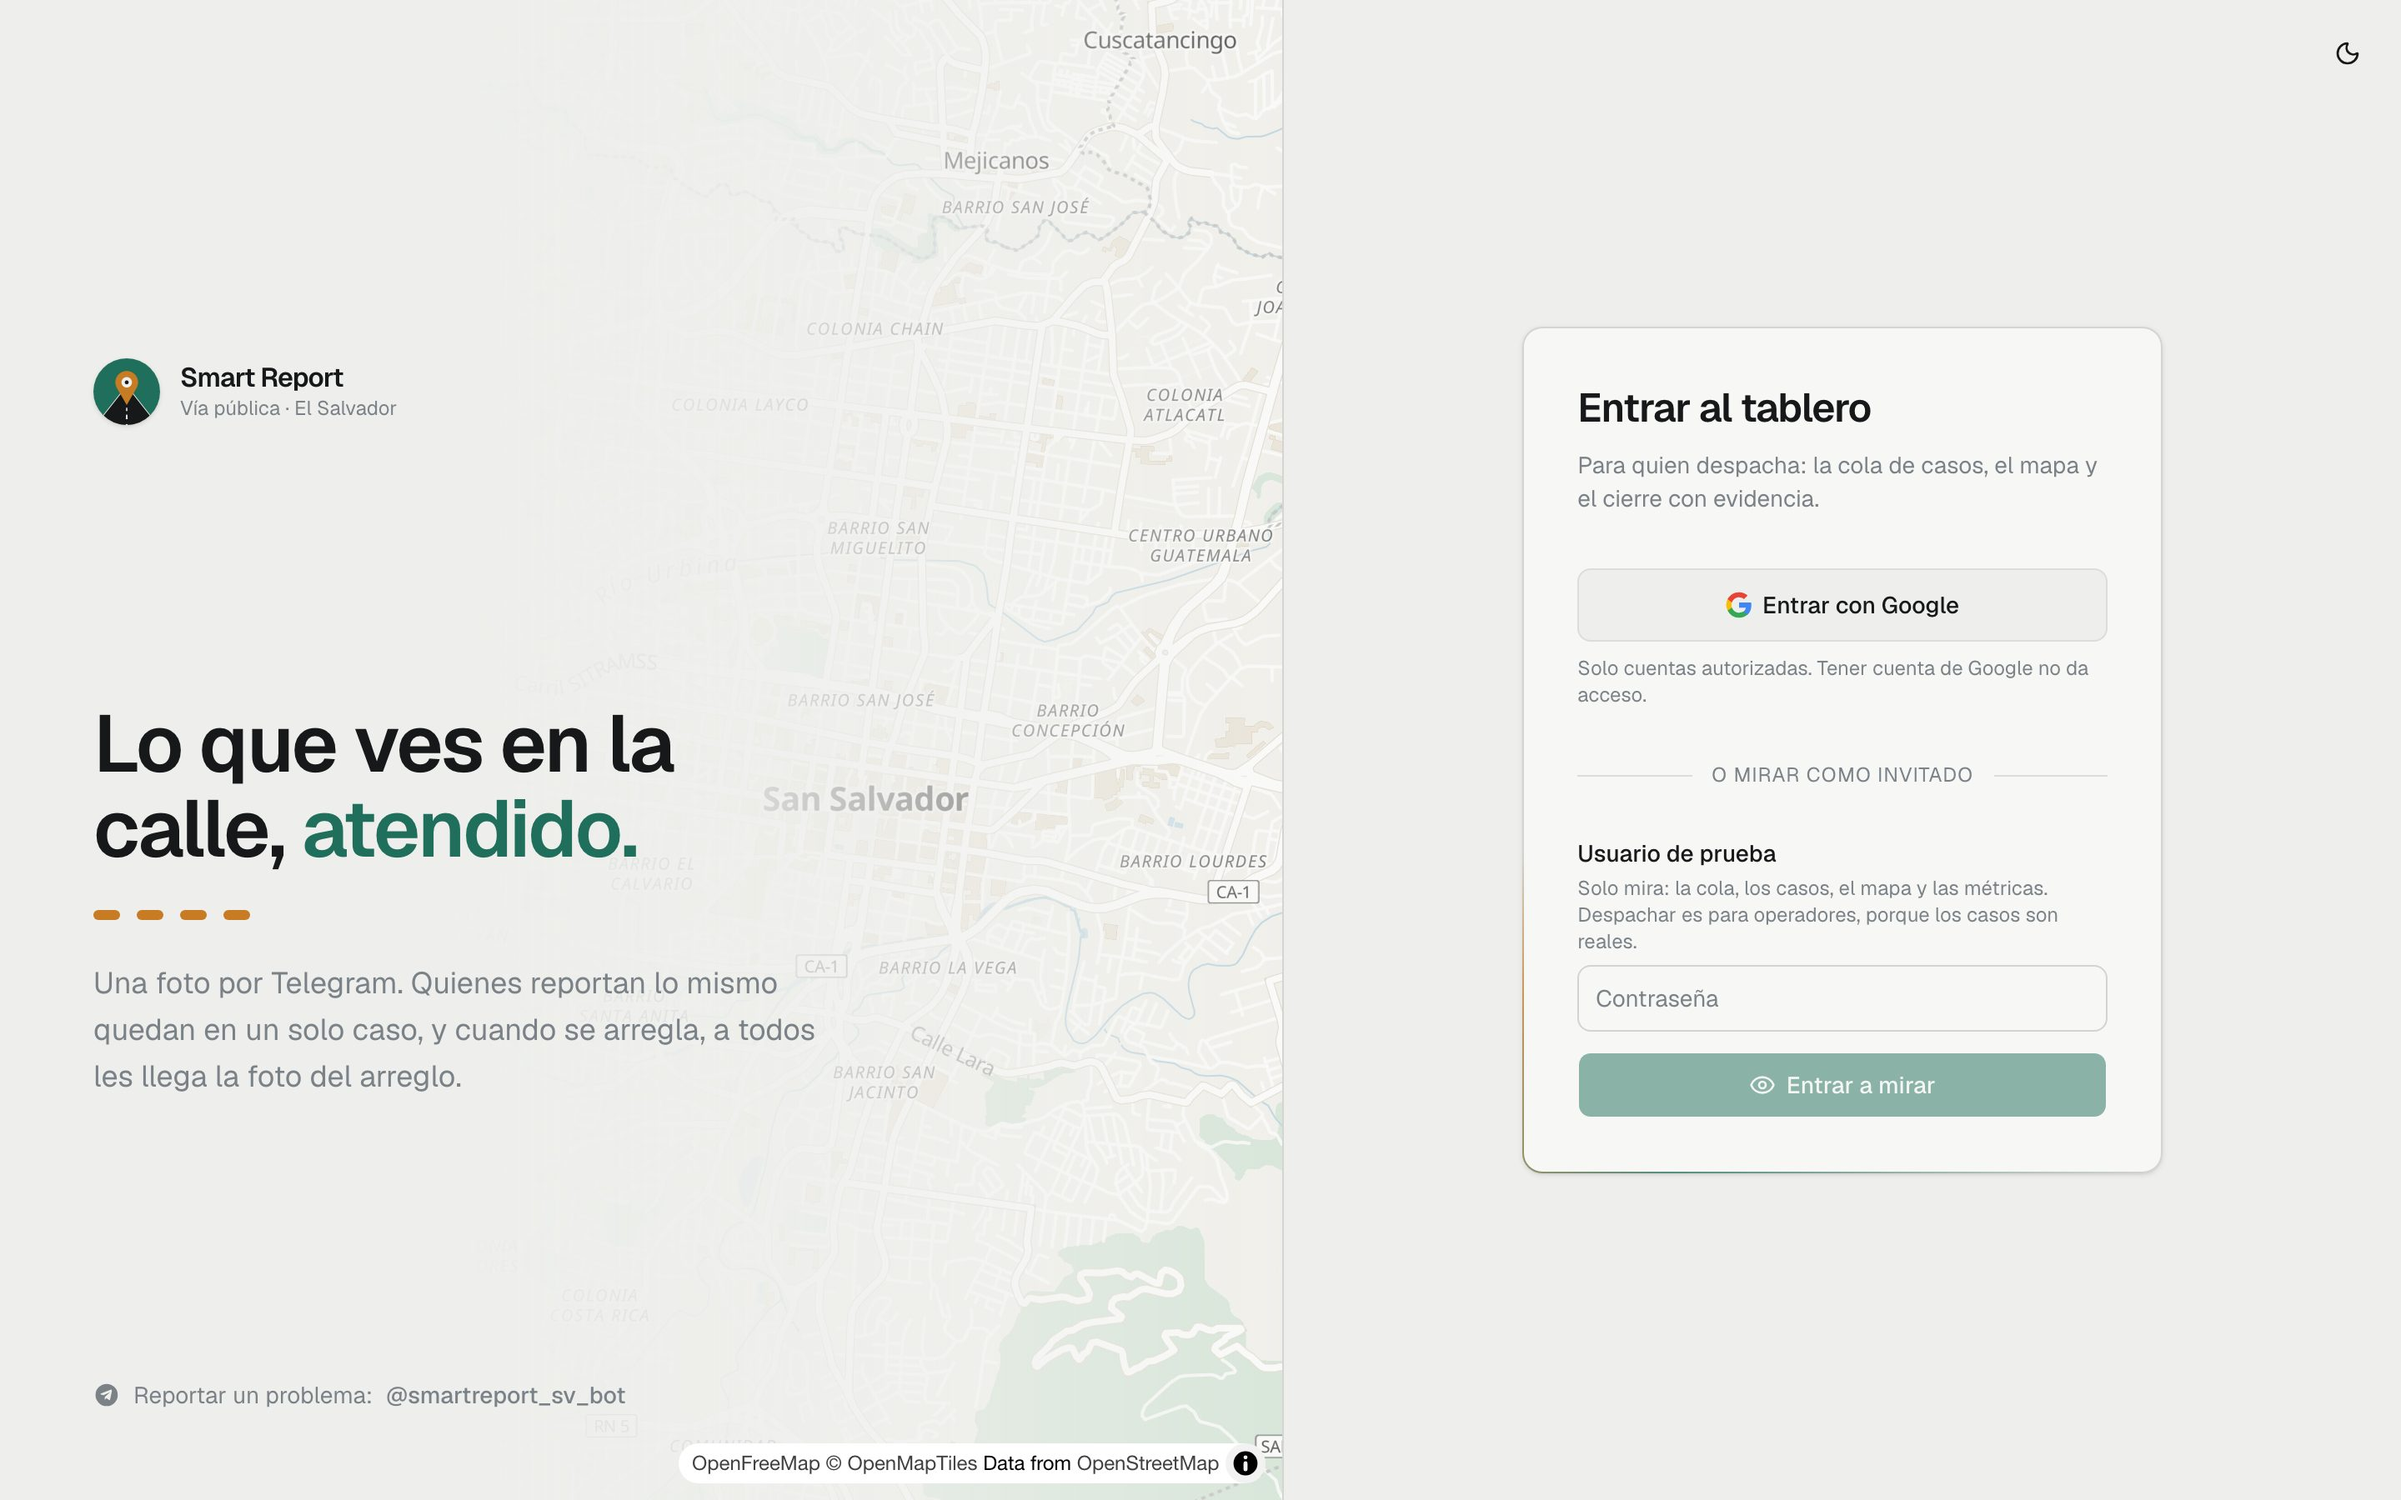
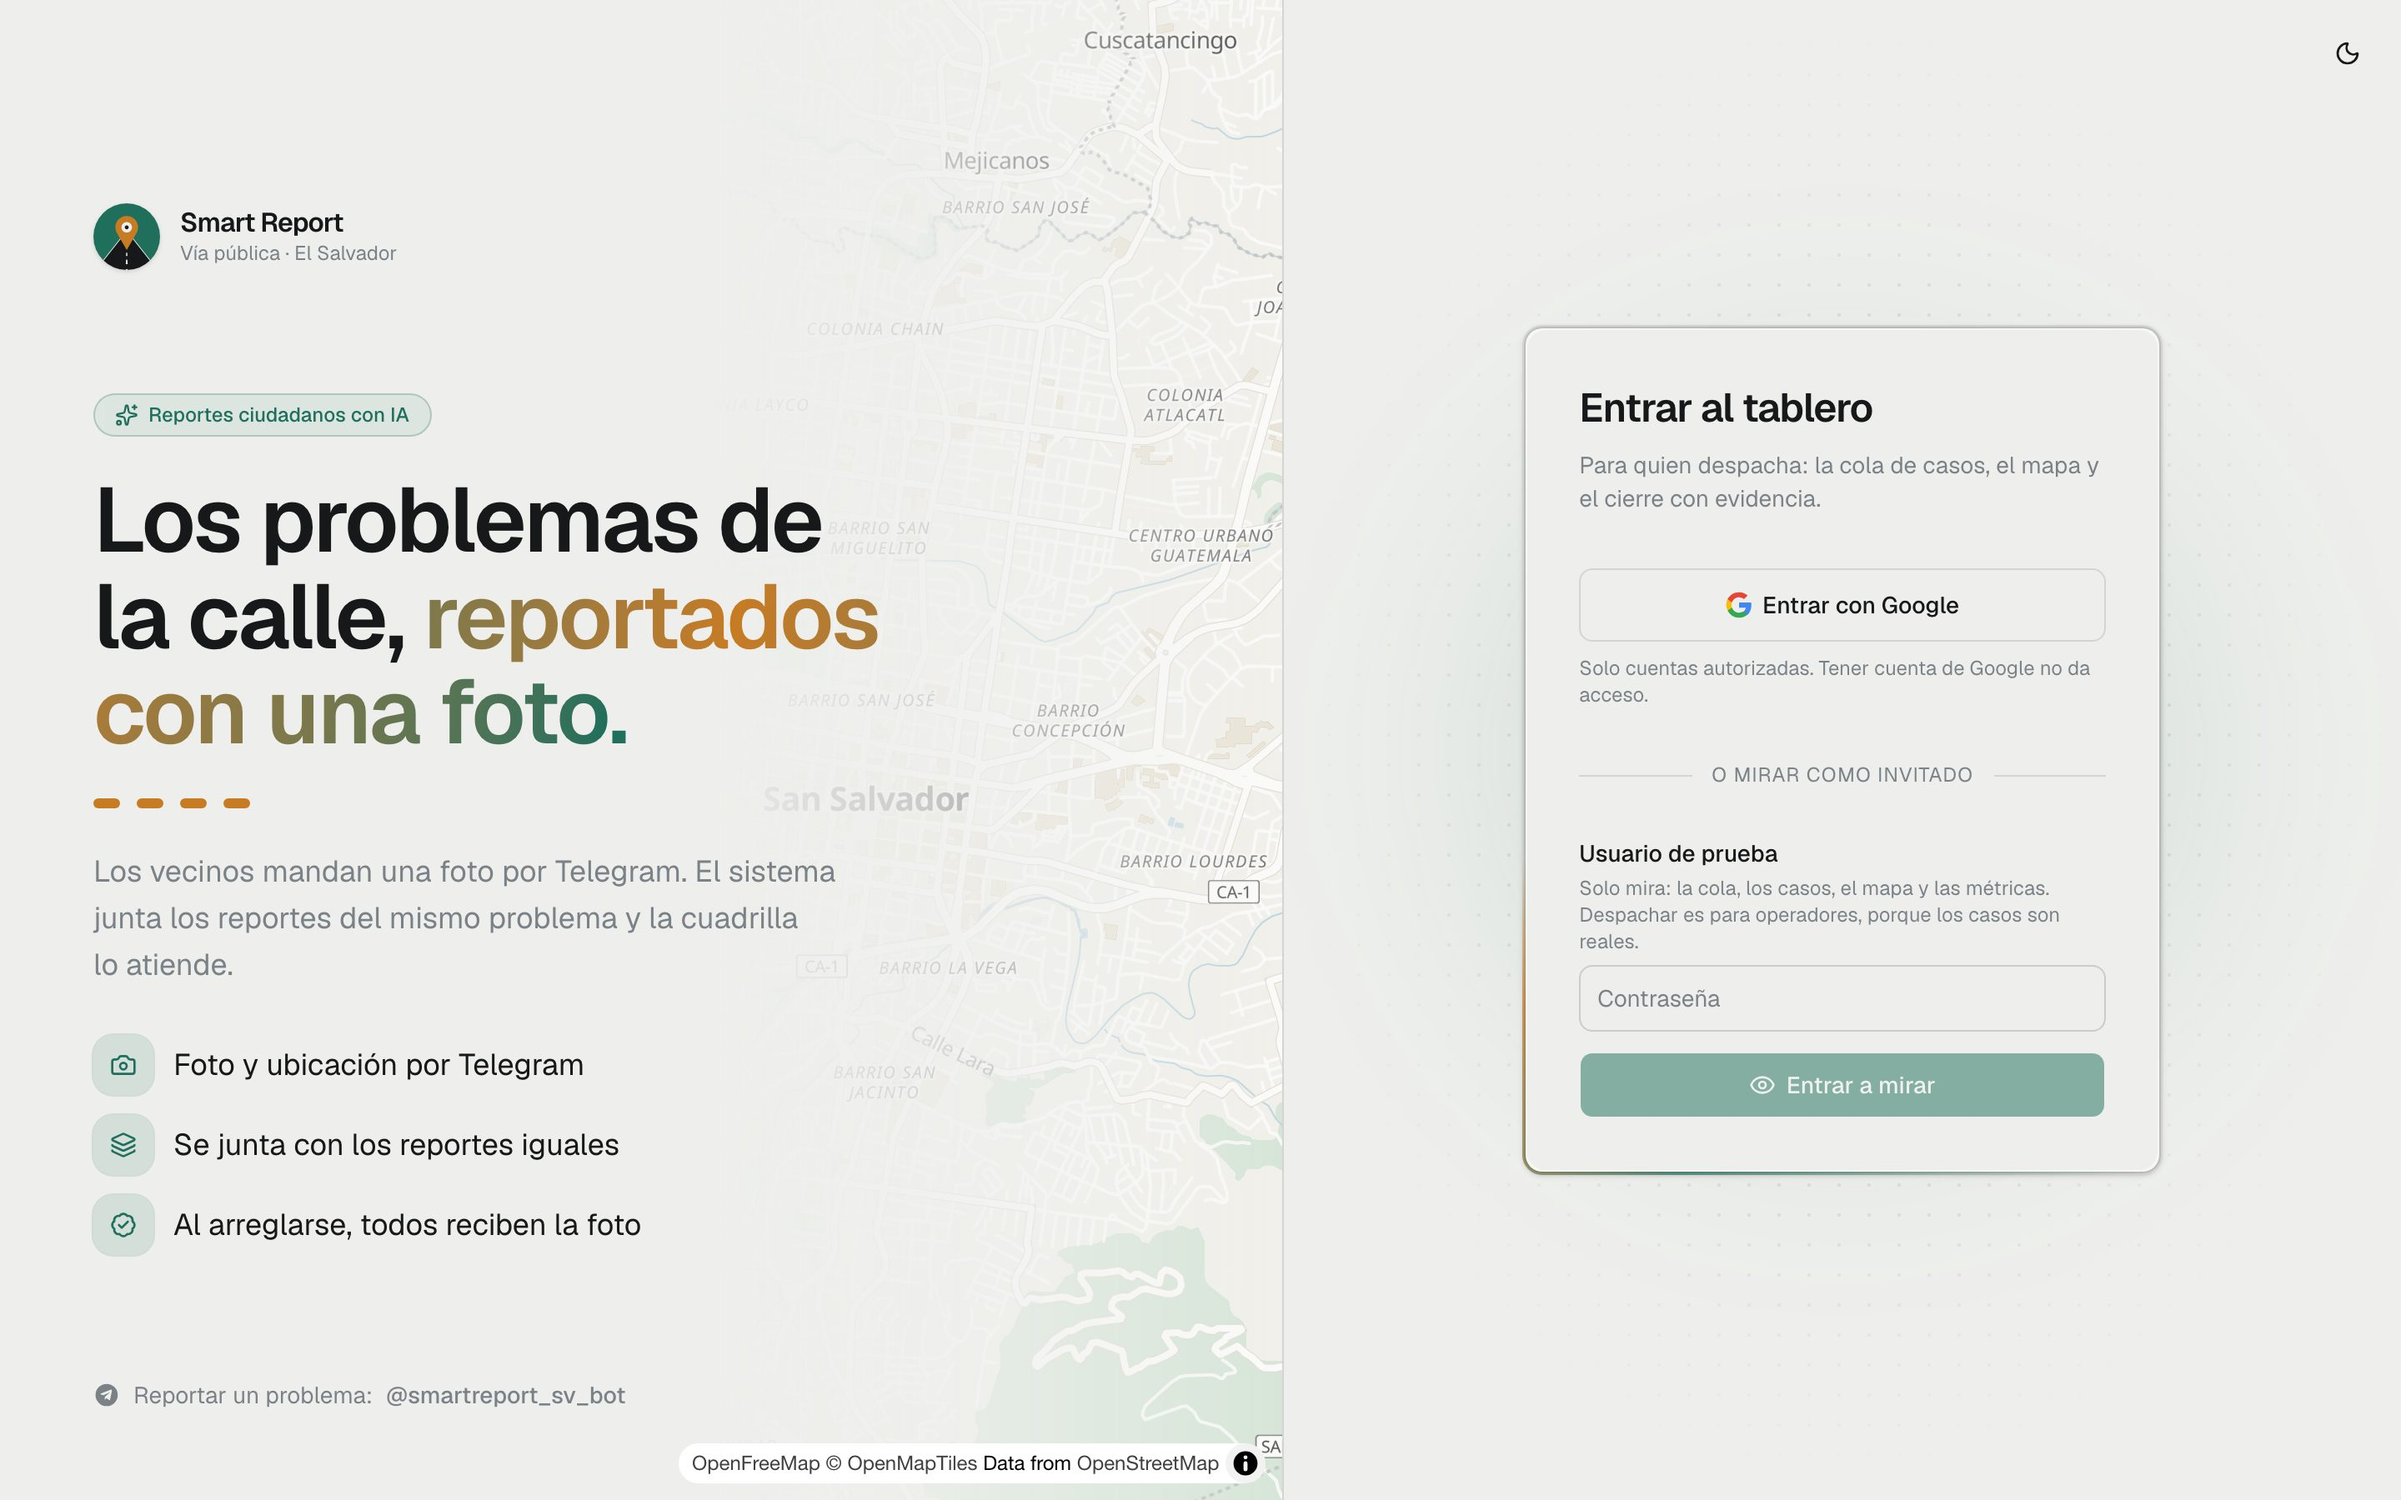
docs: refresh README and screenshots for the robot, users and new login
Screenshots retaken from production as the read-only guest: the new login
copy, summary, closed case, colored map, 3D map and assistant, plus two new
ones the capture script now takes, the robot up close and the phone layout.
README presents the robot, user management and profile; CLAUDE.md records the
decisions of this round and why the orphan sweep now only touches
photo-shaped keys.

diff --git a/README.md b/README.md
@@ -19,7 +19,7 @@
 <p align="center">
   <a href="https://github.com/GerardoAmaya/smart-report-ia/actions/workflows/ci.yml"><img alt="CI" src="https://github.com/GerardoAmaya/smart-report-ia/actions/workflows/ci.yml/badge.svg"></a>
   <a href="https://smart-report-sv.duckdns.org/health"><img alt="En producción" src="https://img.shields.io/badge/producción-en%20línea-1f6f5c"></a>
-  <img alt="Pruebas" src="https://img.shields.io/badge/pruebas-282%20%2B%209%20E2E-1f6f5c">
+  <img alt="Pruebas" src="https://img.shields.io/badge/pruebas-312%20%2B%209%20E2E-1f6f5c">
   <img alt="Costo de infraestructura" src="https://img.shields.io/badge/infraestructura-USD%200%2Fmes-c77b23">
 </p>
 
@@ -140,13 +140,20 @@ cámara gira despacio. Sin librerías de 3D: es el mismo MapLibre.
 
 ![Mapa 3D con edificios en relieve y la columna de un caso urgente](docs/capturas/tablero-mapa-3d.jpg)
 
-**Pregúntale al tablero.** Un panel donde se escribe «¿qué quedó pendiente?» o
-«resumen de la semana», y el modelo contesta con los datos del sistema y
-enlaces a cada caso. **Solo puede mirar**: sus herramientas son consultas
-escritas en código, corren en una transacción de solo lectura, y asignar o
-cerrar sigue siendo cosa del panel de cada caso.
+**Pregúntale al tablero.** Lo abre un robot que flota en la esquina: sigue el
+cursor con los ojos, parpadea, se pone contento cuando lo señalas, se duerme si
+nadie lo usa y se puede arrastrar a donde estorbe menos. De vez en cuando avisa
+—«Hay 2 casos urgentes abiertos»— con el número real.
 
-![El asistente respondiendo qué casos urgentes quedan pendientes](docs/capturas/asistente.png)
+<p align="center"><img src="docs/capturas/robot.png" alt="El robot del asistente, con casco de obra y la etiqueta IA, sonriendo" width="200"></p>
+
+En el panel se escribe «¿qué quedó pendiente?» o «resumen de la semana», y el
+modelo contesta con los datos del sistema y enlaces a cada caso. **Solo puede
+mirar**: sus herramientas son consultas escritas en código, corren en una
+transacción de solo lectura, y asignar o cerrar sigue siendo cosa del panel de
+cada caso.
+
+![El asistente respondiendo qué quedó pendiente](docs/capturas/asistente.png)
 
 Y donde el sistema duda, una segunda mirada: en un reporte que quedó en el
 límite de la agrupación, **«Comparar las fotos»** le pide al modelo que mire las
@@ -158,9 +165,17 @@ resumen trae un feed con lo que ocurre de verdad —reportes que entran, casos q
 se juntan, asignaciones, cierres y a cuántas personas se avisó—, que se mueve
 solo por los mismos avisos de Postgres que el resto del tablero.
 
+**Usuarios y perfil.** Quién entra lo decide una lista de correos autorizados
+con su rol, y ahora se gestiona desde el tablero: un administrador autoriza un
+correo, cambia roles o quita el acceso, sin tocar el servidor. Nadie se puede
+quitar a sí mismo el rol de administrador, y nunca se queda el sistema sin
+uno. Cada persona tiene su foto —la de Google, o una propia— y su nombre.
+
 En el celular el tablero cambia de forma: una barra abajo con Cola, Resumen,
 Caso y Mapa, y cada vista a pantalla completa. Quien despacha desde la calle
 puede asignar, marcar en curso y subir la foto del arreglo desde el teléfono.
+
+<p align="center"><img src="docs/capturas/movil.png" alt="El tablero en un teléfono, con la barra de navegación abajo" width="300"></p>
 
 > Las capturas del tablero las saca un guion contra lo que haya en la base, no
 > una mano: `cd frontend && DEMO_PASSWORD=… node scripts/capturas.mjs`.
@@ -224,6 +239,7 @@ El razonamiento completo, y lo que cada decisión costó descubrir, está en
 | **Canal** | Telegram Bot API, detrás de una interfaz `InboundChannel` | sin instalar nada; WhatsApp sería otro adaptador, no un rediseño |
 | **Fotos** | Cloudflare R2 (S3), MinIO en local | el tablero sirve las mismas fotos ocho horas al día, y R2 no cobra salida |
 | **Tablero** | Next.js 16 · React 19 · TypeScript 6 · Tailwind 4 · shadcn/ui · cmdk · Sonner | |
+| **Movimiento** | Motion · componentes de Magic UI copiados al proyecto | animaciones con propósito; todo se queda quieto con «reducir movimiento» |
 | **Mapa** | MapLibre 6 con teselas de OpenFreeMap | gratis, sin clave y sin límite de cargas |
 | **Datos en vivo** | TanStack Query + SSE | el tablero escucha y no habla: no hace falta WebSocket |
 | **Servidor** | Docker Compose · Caddy 2 · Oracle Cloud Always Free (ARM) | un solo origen con HTTPS automático, sin CORS |

diff --git a/CLAUDE.md b/CLAUDE.md
@@ -55,7 +55,7 @@ que existe:
 - Tablero en vivo por SSE sobre `LISTEN/NOTIFY`, sin sondeo
 - Nueve pruebas extremo a extremo con Playwright contra el sistema levantado
 - Veinte migraciones, una por tabla, y seeders versionados aparte
-- 275 pruebas y 9 recorridos en verde, CI en verde
+- 312 pruebas y 9 recorridos en verde, CI en verde
 
 **La fase 6 se cerró el 15 de septiembre de 2026.** Un reporte real desde un
 teléfono recorrió todo —foto, ubicación, propuesta, confirmación, asignación,
@@ -282,6 +282,13 @@ apunta» y los registros de desarrollo no están en la base de pruebas.
 bytes y después confirma la fila; sin margen, barrer durante esa ventana
 borraría una foto que estaba entrando. Sin este barrido, un objeto que perdió su
 fila queda fuera del alcance de la política para siempre.
+
+**Y solo barre lo que tiene forma de foto** (`AAAA/MM/DD/...`). Barria todo lo
+que ninguna fila de fotos apuntara, y en el bucket tambien viven los respaldos
+(`respaldos/`) y los avatares (`avatares/`): cada dia se habria llevado el
+respaldo de la vispera, dejando uno de catorce. Se detecto en produccion con dos
+respaldos de menos de un dia, antes de perder ninguno. Cualquier prefijo nuevo
+en el bucket queda fuera del barrido por defecto, que es el lado seguro.
 
 **El aviso de vuelta se encola, nunca se manda en la peticion.** El cierre es
 un hecho; avisarlo es un intento. Si mandar cuatro mensajes viviera dentro de la
@@ -624,6 +631,35 @@ muestra nada de quien reporto: ni su usuario ni lo que escribio.
 **Un enlace con `?caso=` abre en el caso**, no en el resumen. El caso va en la
 URL para poder compartirlo, y abrirlo en el resumen obligaba a buscarlo otra
 vez.
+
+**Quien entra lo gestiona un administrador desde el tablero**, no el seeder. La
+autorizacion sigue siendo la tabla de correos con su rol; ahora se edita con
+`GESTIONAR_USUARIOS`. Nadie se quita a si mismo el rol ni el acceso, y siempre
+queda al menos un admin activo, contado con las filas bloqueadas: dos admins
+desactivandose a la vez podian dejar cero. Desactivar corta en la siguiente
+peticion, porque la sesion mira `is_active` cada vez.
+
+**La foto de perfil: la propia, si no la de Google, si no las iniciales.** La
+propia se recorta a 256 px y vive en R2 bajo `avatares/`. El invitado no
+cambia ni foto ni nombre: es una cuenta de todo el publico, y seria grafiti.
+
+**El asistente lo abre un robot, el unico control con nombre «Asistente».** Es
+un dibujo propio en SVG con la paleta y un casco de obra, no un personaje
+prestado. Se arrastra y recuerda donde lo dejaste; un movimiento de mas de 5 px
+es arrastre y no abre el panel. Su globo da el numero real de urgentes sacado de
+la cache de la cola, sin pedir nada al servidor. Quieto con «reducir
+movimiento».
+
+**Librerias de interfaz: del ecosistema de shadcn, no MUI ni Mantine.** MUI y
+Mantine traen su propio sistema de temas y de estilos; junto a Tailwind y
+shadcn serian dos modos oscuros, estilos que se pisan, unos 300 KB mas y un
+tablero con dos caras. Magic UI y similares se copian al proyecto, heredan la
+paleta y solo usan `motion`, que ya estaba.
+
+**La entrada se entiende en dos segundos.** Tuvo un titular que sonaba bien y no
+decia que era esto («Lo que ves en la calle, atendido»), una palabra que rotaba
+y una cinta de seis pasos: se movia mucho y explicaba poco. Ahora dice que es,
+como funciona en una frase y tres pasos quietos.
 
 ---
 
